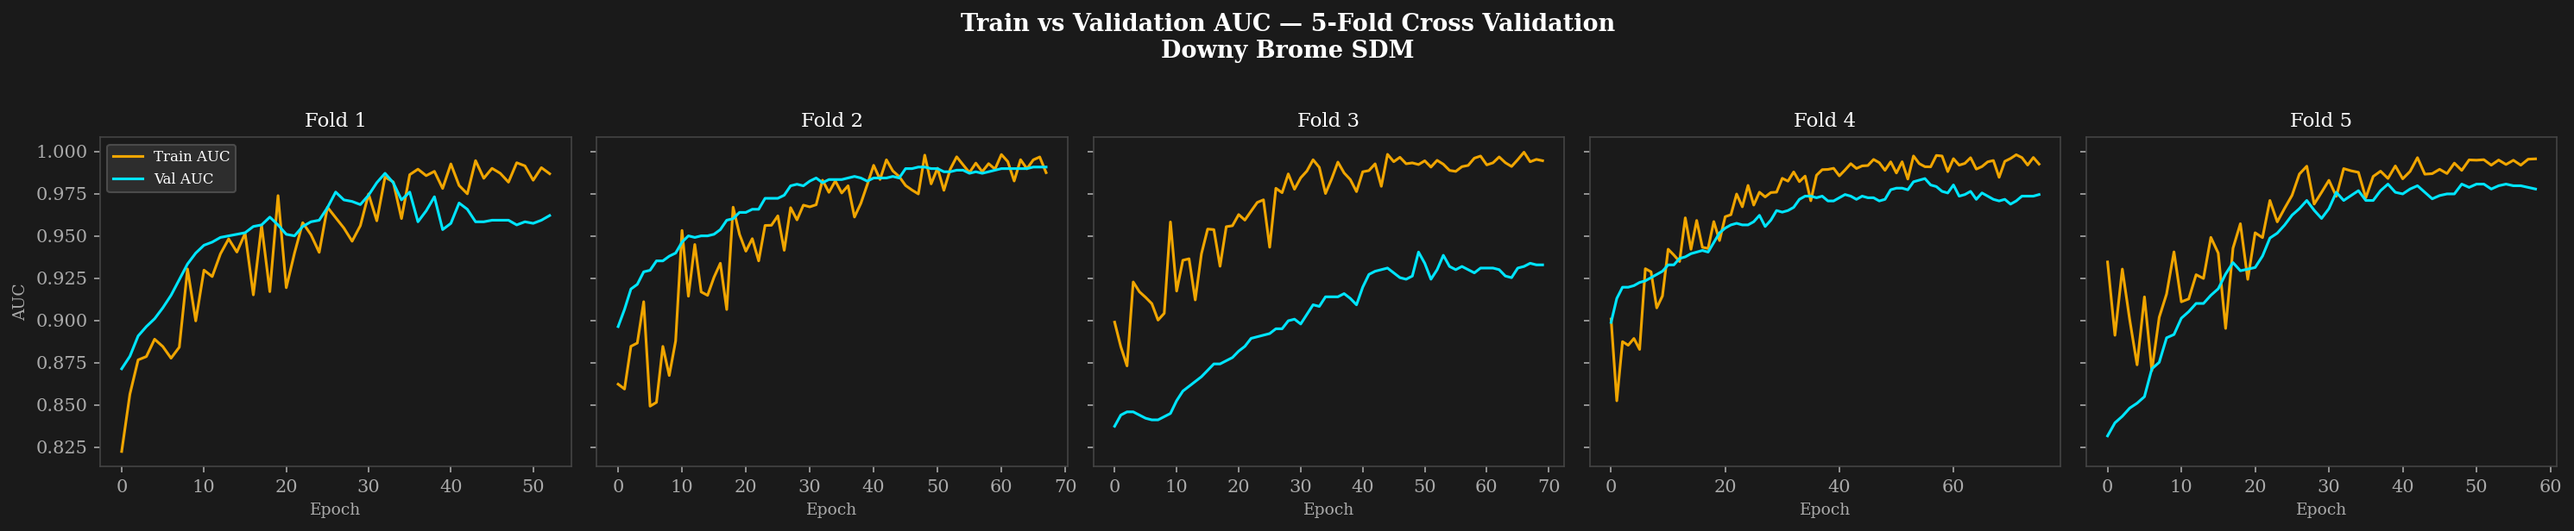
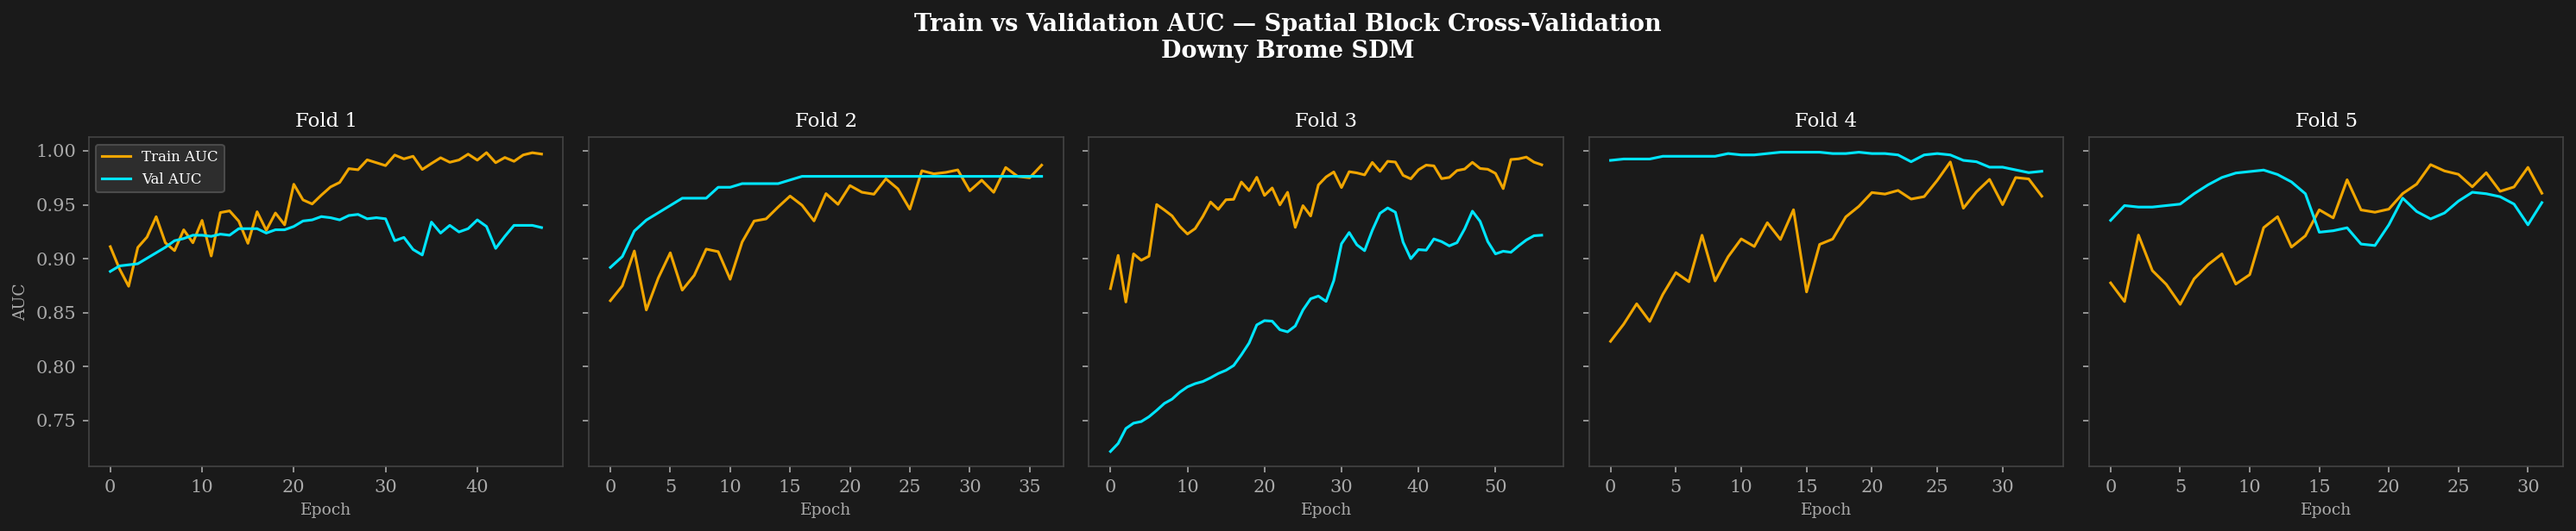
changed cnn evaluate to be spatial to match maxent

diff --git a/models/CNN/evaluate (1).py b/models/CNN/evaluate (1).py
@@ -1,0 +1,354 @@
+"""
+evaluate.py  —  Downy Brome SDM
+Spatial block cross-validation to check for overfitting.
+Uses KMeans geographic blocking (matching MaxEnt evaluation approach) rather
+than random stratified folds to account for spatial autocorrelation in presence data.
+Reports mean ± std AUC and CBI across folds, plus train vs val AUC per fold.
+
+Usage
+-----
+python evaluate.py \
+    --shp  data/points_combined_culled.shp \
+    --tif  data/emb11Nclp.tif             \
+    --label_col label                      \
+    --folds 5
+"""
+
+import argparse
+import numpy as np
+import torch
+import torch.nn as nn
+import torch.optim as optim
+from sklearn.cluster import KMeans
+from sklearn.metrics import roc_auc_score
+from sklearn.preprocessing import StandardScaler
+from scipy.stats import spearmanr
+from torch.utils.data import DataLoader, WeightedRandomSampler
+import matplotlib.pyplot as plt
+import matplotlib as mpl
+import geopandas as gpd
+import rasterio
+
+from data import SpectraDataset
+from model import get_model
+
+
+# ---------------------------------------------------------------------------
+# Spatial block fold builder
+# Mirrors MaxEnt's _build_stratified_spatial_folds: cluster presence points
+# geographically, assign absence/background points to nearest centroid.
+# ---------------------------------------------------------------------------
+
+def build_spatial_folds(coords, y, n_folds=5, random_state=42):
+    """
+    Build spatial CV folds stratified by presence point geography.
+
+    Clusters presence points into n_folds geographic blocks via KMeans,
+    then assigns absence points to the nearest block centroid. This prevents
+    nearby points from appearing in both train and test sets, avoiding
+    AUC inflation from spatial autocorrelation.
+
+    Args:
+        coords (np.ndarray): Shape (N, 2) — (x, y) coordinates per point.
+        y (np.ndarray): Shape (N,) — binary labels (1=presence, 0=absence).
+        n_folds (int): Number of spatial folds.
+        random_state (int): Random seed.
+
+    Yields:
+        tuple[np.ndarray, np.ndarray]: (train_indices, val_indices) per fold.
+    """
+    presence_idx = np.where(y == 1)[0]
+    absence_idx  = np.where(y == 0)[0]
+
+    presence_coords = coords[presence_idx]
+    absence_coords  = coords[absence_idx]
+
+    # 1. Cluster presence points geographically
+    km = KMeans(n_clusters=n_folds, random_state=random_state, n_init=10)
+    presence_fold_labels = km.fit_predict(presence_coords)
+
+    # 2. Assign absence points to nearest presence cluster centroid
+    centroids = km.cluster_centers_
+    dists = np.linalg.norm(absence_coords[:, None] - centroids[None], axis=2)
+    absence_fold_labels = np.argmin(dists, axis=1)
+
+    # 3. Build combined label array aligned to original indices
+    fold_labels = np.empty(len(y), dtype=int)
+    fold_labels[presence_idx] = presence_fold_labels
+    fold_labels[absence_idx]  = absence_fold_labels
+
+    for fold in range(n_folds):
+        val_idx   = np.where(fold_labels == fold)[0]
+        train_idx = np.where(fold_labels != fold)[0]
+        yield train_idx, val_idx
+
+
+# ---------------------------------------------------------------------------
+# Continuous Boyce Index
+# Ported from MaxEnt implementation (Hirzel et al. 2006).
+# ---------------------------------------------------------------------------
+
+def continuous_boyce_index(pred_presence, pred_absence, window_width=0.1, step=0.02):
+    """
+    Compute the Continuous Boyce Index (CBI) using a moving window.
+
+    Slides an overlapping window across the predicted suitability range and
+    computes the Spearman correlation between window centres and the
+    predicted/expected frequency ratio. Positive values mean high suitability
+    areas contain more presences than expected by chance.
+
+    Args:
+        pred_presence (np.ndarray): Model predictions at presence locations.
+        pred_absence (np.ndarray): Model predictions at absence locations.
+        window_width (float): Width of each moving window in suitability units.
+        step (float): Step size between successive window centres.
+
+    Returns:
+        float: Spearman correlation (CBI), range [-1, 1]. NaN if insufficient data.
+    """
+    all_preds = np.concatenate([pred_presence, pred_absence])
+    p_min, p_max = all_preds.min(), all_preds.max()
+
+    centers   = np.arange(p_min + window_width / 2, p_max - window_width / 2 + step, step)
+    pe_centers = []
+    pe_ratios  = []
+
+    for c in centers:
+        lo, hi = c - window_width / 2, c + window_width / 2
+        n_pres = np.sum((pred_presence >= lo) & (pred_presence < hi))
+        n_abs  = np.sum((pred_absence  >= lo) & (pred_absence  < hi))
+        if n_abs == 0:
+            continue
+        F_pres = n_pres / len(pred_presence)
+        F_exp  = n_abs  / len(pred_absence)
+        pe_centers.append(c)
+        pe_ratios.append(F_pres / F_exp)
+
+    if len(pe_ratios) < 3:
+        return np.nan
+
+    return spearmanr(pe_centers, pe_ratios).correlation
+
+
+# ---------------------------------------------------------------------------
+# Single fold train + eval
+# ---------------------------------------------------------------------------
+
+def run_fold(X_tr, y_tr, X_val, y_val, n_bands, device,
+             epochs=100, batch_size=64, patience=20, lr=1e-3):
+
+    scaler = StandardScaler()
+    X_tr   = scaler.fit_transform(X_tr).astype(np.float32)
+    X_val  = scaler.transform(X_val).astype(np.float32)
+
+    train_ds = SpectraDataset(X_tr, y_tr)
+    val_ds   = SpectraDataset(X_val, y_val)
+
+    class_counts = np.bincount(y_tr)
+    weights      = 1.0 / class_counts[y_tr]
+    sampler      = WeightedRandomSampler(weights, num_samples=len(weights), replacement=True)
+
+    train_loader = DataLoader(train_ds, batch_size=batch_size, sampler=sampler)
+    val_loader   = DataLoader(val_ds,   batch_size=batch_size, shuffle=False)
+
+    model     = get_model(n_bands=n_bands).to(device)
+    criterion = nn.BCELoss()
+    optimizer = optim.Adam(model.parameters(), lr=lr, weight_decay=1e-4)
+    scheduler = optim.lr_scheduler.ReduceLROnPlateau(
+        optimizer, mode='max', factor=0.5, patience=10
+    )
+
+    best_val_auc   = 0.0
+    best_preds_val = None
+    patience_count = 0
+    train_aucs     = []
+    val_aucs       = []
+
+    for epoch in range(1, epochs + 1):
+        model.train()
+        for X, y in train_loader:
+            X, y = X.to(device), y.to(device).unsqueeze(1)
+            optimizer.zero_grad()
+            loss = criterion(model(X), y)
+            loss.backward()
+            optimizer.step()
+
+        model.eval()
+        with torch.no_grad():
+            def get_preds(loader):
+                all_p, all_y = [], []
+                for X, y in loader:
+                    all_p.append(model(X.to(device)).cpu().numpy())
+                    all_y.append(y.numpy())
+                return np.concatenate(all_p).squeeze(), np.concatenate(all_y)
+
+            tr_preds, tr_labels = get_preds(train_loader)
+            vl_preds, vl_labels = get_preds(val_loader)
+
+        tr_auc = roc_auc_score(tr_labels, tr_preds)
+        vl_auc = roc_auc_score(vl_labels, vl_preds)
+        train_aucs.append(tr_auc)
+        val_aucs.append(vl_auc)
+
+        scheduler.step(vl_auc)
+
+        if vl_auc > best_val_auc:
+            best_val_auc   = vl_auc
+            best_preds_val = (vl_preds.copy(), vl_labels.copy())
+            patience_count = 0
+        else:
+            patience_count += 1
+
+        if patience_count >= patience:
+            break
+
+    return best_val_auc, best_preds_val, train_aucs, val_aucs
+
+
+# ---------------------------------------------------------------------------
+# Plot: train vs val AUC per fold
+# ---------------------------------------------------------------------------
+
+def plot_fold_curves(all_train_aucs, all_val_aucs, out_path="cv_curves.png"):
+    mpl.rcParams.update({"font.family": "serif"})
+
+    fig, axes = plt.subplots(1, len(all_train_aucs),
+                             figsize=(4 * len(all_train_aucs), 4),
+                             sharey=True)
+    fig.patch.set_facecolor("#1a1a1a")
+
+    colors = {"train": "#f0a500", "val": "#00e5ff"}
+
+    for i, (tr, vl) in enumerate(zip(all_train_aucs, all_val_aucs)):
+        ax = axes[i]
+        ax.set_facecolor("#1a1a1a")
+        ax.plot(tr, color=colors["train"], lw=1.5, label="Train AUC")
+        ax.plot(vl, color=colors["val"],   lw=1.5, label="Val AUC")
+        ax.set_title(f"Fold {i+1}", color="white", fontsize=11)
+        ax.set_xlabel("Epoch", color="#aaaaaa", fontsize=9)
+        ax.tick_params(colors="#aaaaaa")
+        for spine in ax.spines.values():
+            spine.set_edgecolor("#444444")
+        if i == 0:
+            ax.set_ylabel("AUC", color="#aaaaaa", fontsize=9)
+            ax.legend(fontsize=8, labelcolor="white",
+                      facecolor="#333333", edgecolor="#555555")
+
+    fig.suptitle("Train vs Validation AUC — Spatial Block Cross-Validation\nDowny Brome SDM",
+                 color="white", fontsize=13, fontweight="bold", y=1.02)
+    plt.tight_layout()
+    plt.savefig(out_path, dpi=150, bbox_inches="tight",
+                facecolor=fig.get_facecolor())
+    print(f"  Curves saved → {out_path}")
+    plt.close()
+
+
+# ---------------------------------------------------------------------------
+# Main
+# ---------------------------------------------------------------------------
+
+def main(args):
+    device = torch.device("cuda" if torch.cuda.is_available() else "cpu")
+    print(f"\n{'='*60}")
+    print(f"  Downy Brome SDM  —  {args.folds}-fold Spatial Block CV on {device}")
+    print(f"{'='*60}\n")
+
+    # Load points and extract raster values + coordinates
+    gdf = gpd.read_file(args.shp)
+    if gdf.crs is None:
+        gdf = gdf.set_crs(epsg=26911)
+
+    with rasterio.open(args.tif) as src:
+        if gdf.crs != src.crs:
+            gdf = gdf.to_crs(src.crs)
+        coords_xy = np.array([(geom.x, geom.y) for geom in gdf.geometry])
+        samples   = list(src.sample([(x, y) for x, y in coords_xy]))
+        nodata    = src.nodata if src.nodata is not None else -9999
+
+    X = np.array(samples, dtype=np.float32)
+    y = gdf[args.label_col].values.astype(np.int64)
+
+    # Drop nodata rows, keeping coords aligned
+    valid    = ~np.any(X == nodata, axis=1)
+    X        = X[valid]
+    y        = y[valid]
+    coords   = coords_xy[valid]
+    n_bands  = X.shape[1]
+
+    print(f"  Sampled {len(X)} valid points  "
+          f"({y.sum()} presence / {(y==0).sum()} absence)\n")
+
+    fold_aucs      = []
+    fold_cbis      = []
+    all_train_aucs = []
+    all_val_aucs   = []
+
+    for fold, (tr_idx, vl_idx) in enumerate(
+            build_spatial_folds(coords, y, n_folds=args.folds), 1):
+
+        X_tr, X_val = X[tr_idx], X[vl_idx]
+        y_tr, y_val = y[tr_idx], y[vl_idx]
+
+        n_val_p = int((y_val == 1).sum())
+        if n_val_p == 0:
+            print(f"  Fold {fold}/{args.folds} → skipped (no presence points in val block)")
+            continue
+        if n_val_p < 5:
+            print(f"  WARNING: Fold {fold} has only {n_val_p} val presence point(s) — metrics unreliable")
+
+        print(f"  Fold {fold}/{args.folds}  "
+              f"(train: {(y_tr==1).sum()}p/{(y_tr==0).sum()}a  "
+              f"val: {(y_val==1).sum()}p/{(y_val==0).sum()}a) ", end="", flush=True)
+
+        best_auc, best_preds, tr_aucs, vl_aucs = run_fold(
+            X_tr, y_tr, X_val, y_val, n_bands, device,
+            epochs=args.epochs, patience=args.patience
+        )
+
+        # CBI on best-epoch val predictions
+        vl_preds, vl_labels = best_preds
+        cbi = continuous_boyce_index(
+            vl_preds[vl_labels == 1],
+            vl_preds[vl_labels == 0],
+        )
+
+        fold_aucs.append(best_auc)
+        fold_cbis.append(cbi)
+        all_train_aucs.append(tr_aucs)
+        all_val_aucs.append(vl_aucs)
+
+        gap = tr_aucs[np.argmax(vl_aucs)] - best_auc
+        cbi_str = f"{cbi:.4f}" if not np.isnan(cbi) else "  nan"
+        print(f"→  Val AUC: {best_auc:.4f}  |  CBI: {cbi_str}  |  Train-Val gap: {gap:+.4f}")
+
+    mean_auc = np.mean(fold_aucs)
+    std_auc  = np.std(fold_aucs)
+    mean_cbi = np.nanmean(fold_cbis)
+    std_cbi  = np.nanstd(fold_cbis)
+
+    print(f"\n{'='*60}")
+    print(f"  Mean Val AUC : {mean_auc:.4f} ± {std_auc:.4f}")
+    print(f"  Mean CBI     : {mean_cbi:.4f} ± {std_cbi:.4f}")
+    print(f"  Per-fold AUC : {[f'{a:.4f}' for a in fold_aucs]}")
+    print(f"  Per-fold CBI : {[f'{c:.4f}' if not np.isnan(c) else 'nan' for c in fold_cbis]}")
+    print(f"{'='*60}\n")
+
+    if std_auc < 0.05:
+        print("  ✓ Low AUC variance across folds — model is stable.")
+    else:
+        print("  ⚠ High AUC variance across folds — performance varies across the study area.")
+
+    plot_fold_curves(all_train_aucs, all_val_aucs, out_path=args.out_png)
+
+
+if __name__ == "__main__":
+    parser = argparse.ArgumentParser(description="Spatial block CV for Downy Brome SDM")
+    parser.add_argument("--shp",       required=True)
+    parser.add_argument("--tif",       required=True)
+    parser.add_argument("--label_col", default="label")
+    parser.add_argument("--folds",     type=int, default=5)
+    parser.add_argument("--epochs",    type=int, default=100)
+    parser.add_argument("--patience",  type=int, default=20)
+    parser.add_argument("--out_png",   default="cv_curves.png")
+    args = parser.parse_args()
+    main(args)
